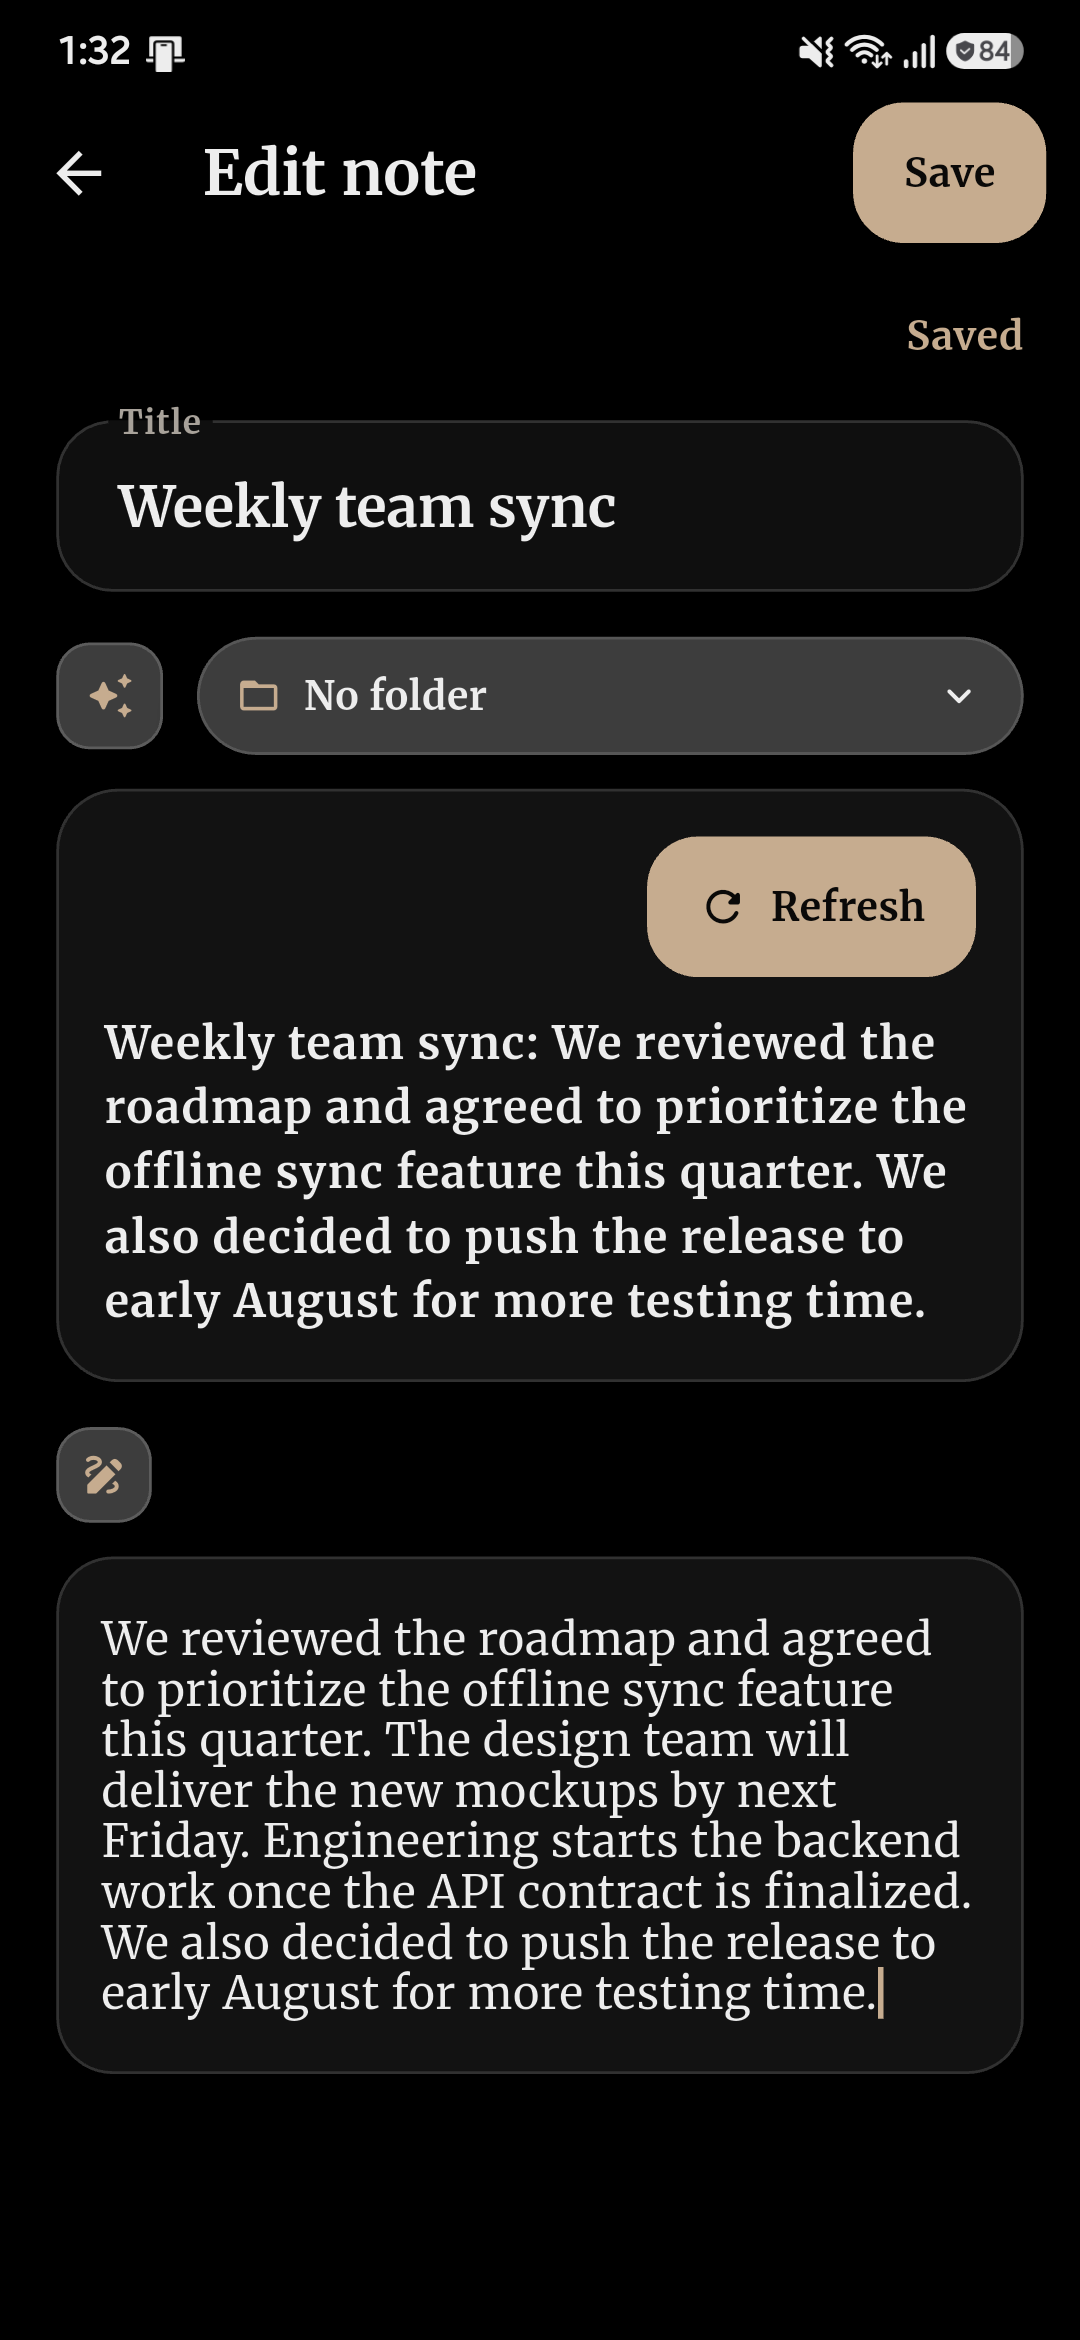
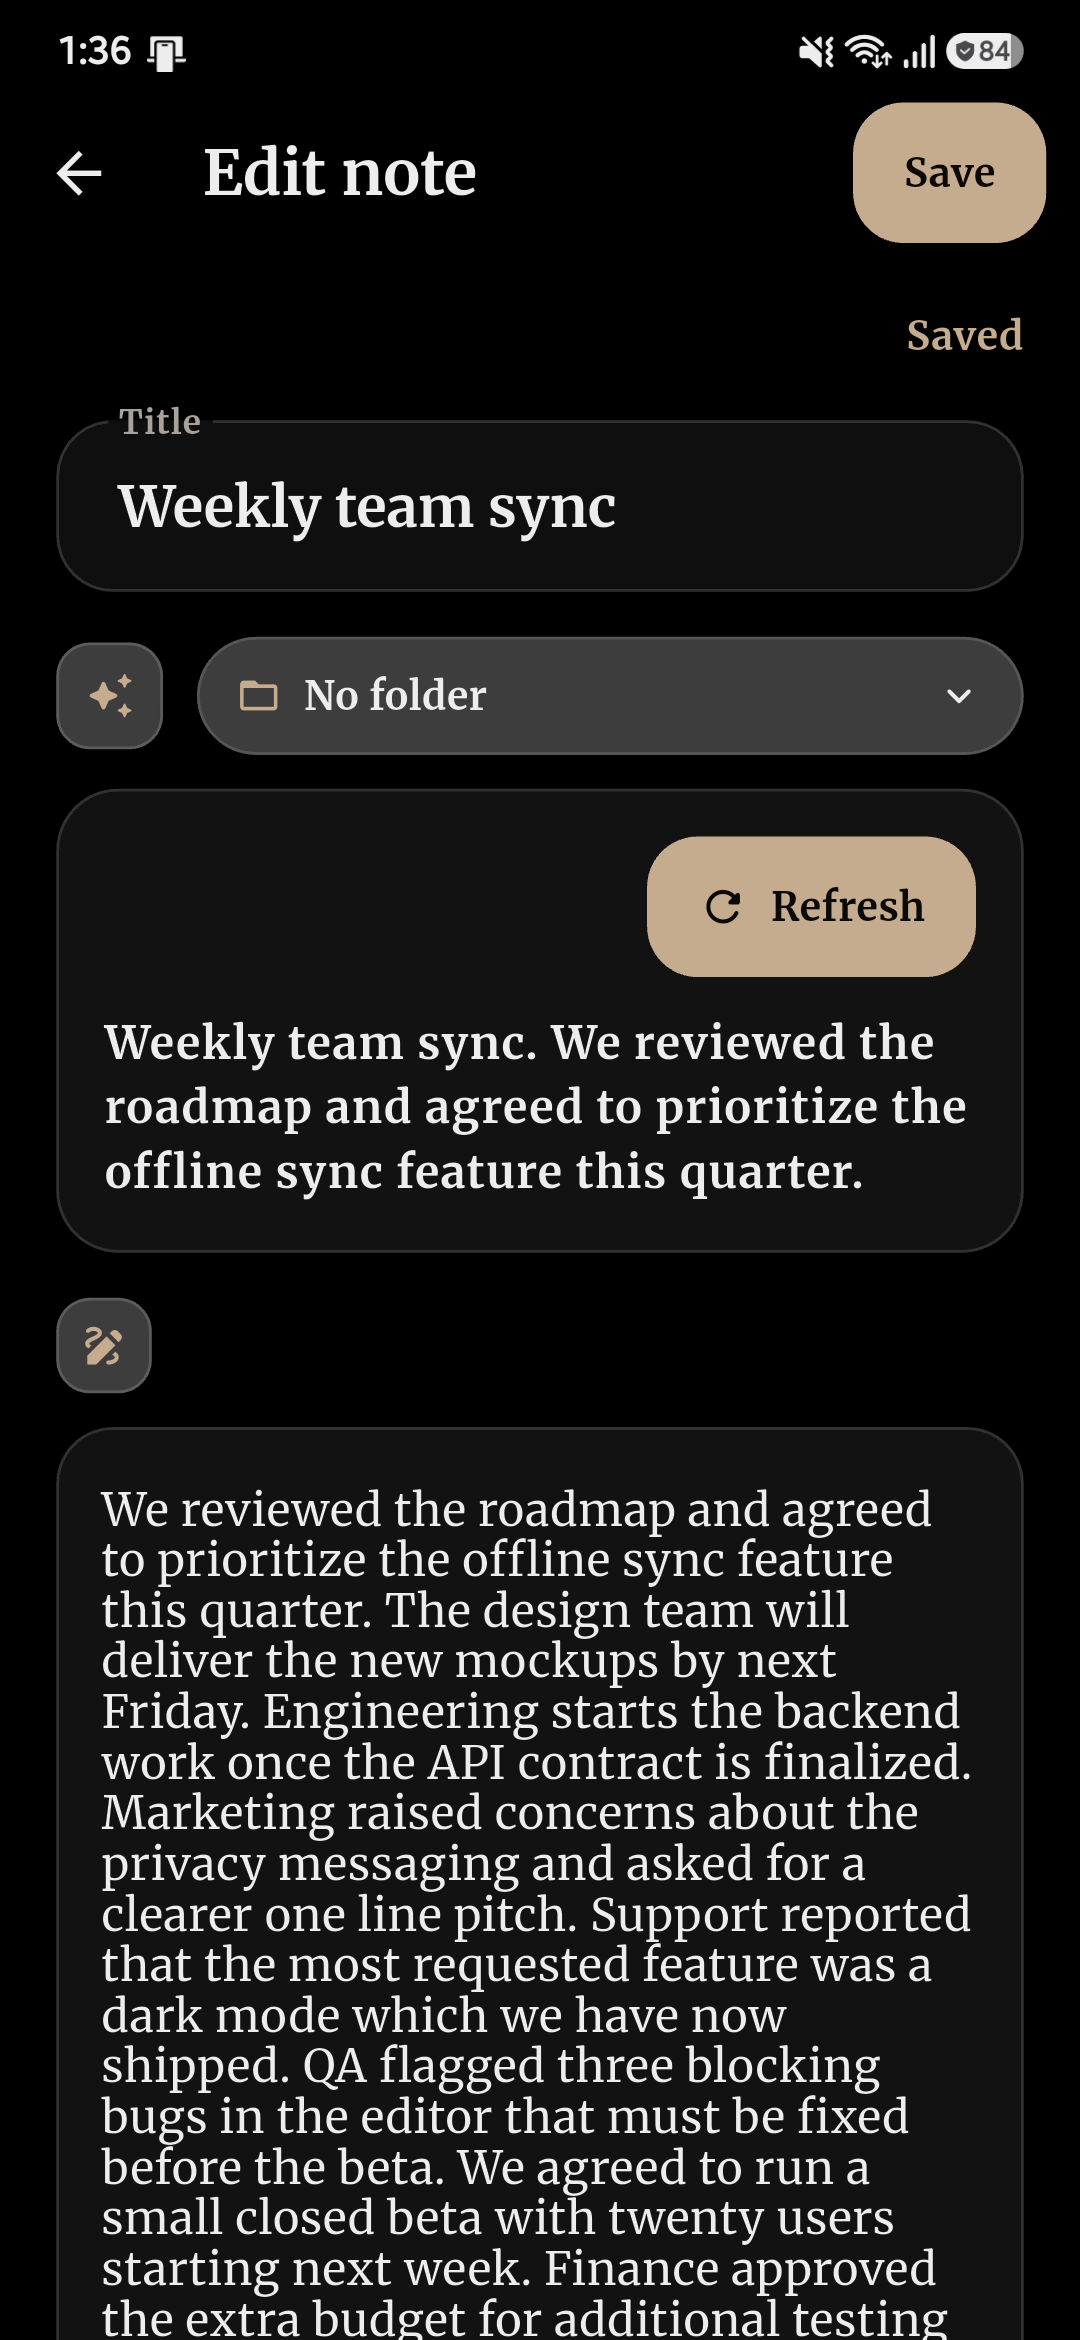
Use a longer sample note and a table-free screenshot layout
- Regenerate the AI-summary screenshot from a much longer note so the
  summary reads as a clear condensation rather than a near-copy.
- Drop the screenshots table and column labels; render the four images
  in a simple centered row.

diff --git a/README.md b/README.md
@@ -6,9 +6,12 @@ The design is deliberate: an AMOLED-black interface with iOS-style liquid-glass 
 
 ## Screenshots
 
-| Library (AMOLED + Snow) | Appearance picker | On-device AI summary | Semantic search |
-|---|---|---|---|
-| ![Library](docs/screenshots/01-library.png) | ![Appearance](docs/screenshots/02-appearance.png) | ![AI summary](docs/screenshots/03-ai-summary.png) | ![Semantic search](docs/screenshots/04-semantic-search.png) |
+<p align="center">
+  <img src="docs/screenshots/01-library.png" width="23%" alt="Library" />
+  <img src="docs/screenshots/02-appearance.png" width="23%" alt="Appearance" />
+  <img src="docs/screenshots/03-ai-summary.png" width="23%" alt="AI summary" />
+  <img src="docs/screenshots/04-semantic-search.png" width="23%" alt="Semantic search" />
+</p>
 
 ## Highlights
 
